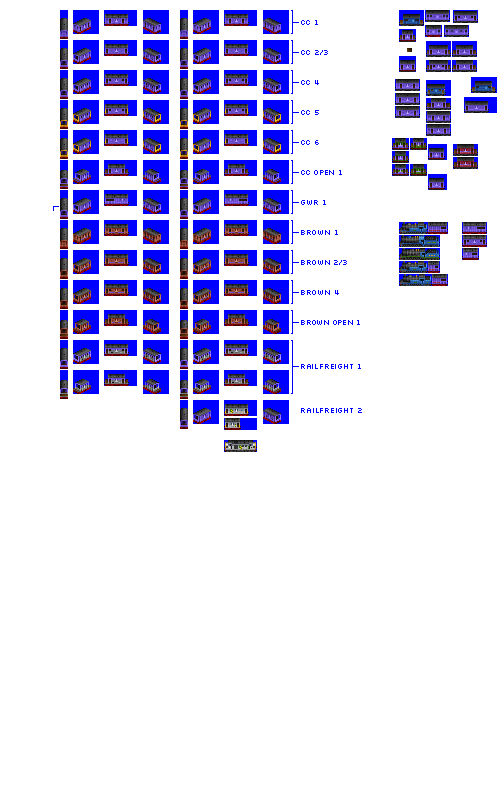
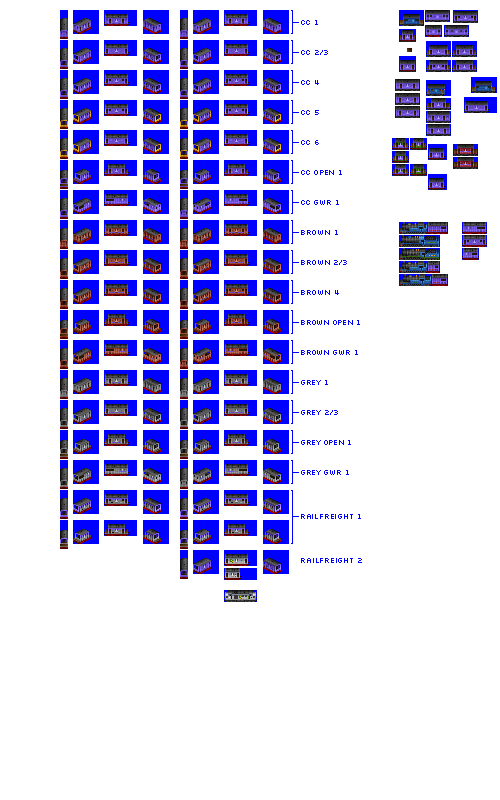
Change: GWR variants complete for Pony caboose cars

diff --git a/src/vehicles/caboose_cars.py b/src/vehicles/caboose_cars.py
@@ -68,11 +68,16 @@ def main():
         "cc_enclosed_5",
         "cc_enclosed_6",
         "cc_open_1",
-        "gwr_1",
+        "cc_gwr_1",
         "brown_enclosed_1",
         "brown_enclosed_2_3",
         "brown_enclosed_4",
         "brown_open_1",
+        "brown_gwr_1",
+        "grey_enclosed_1",
+        "grey_enclosed_2_3",
+        "grey_open_1",
+        "grey_gwr_1",
         "railfreight_enclosed_1",
         "railfreight_open_1",
         # "railfreight_2",
@@ -82,22 +87,28 @@ def main():
         "default_1": [
             "cc_enclosed_1",
             "brown_enclosed_1",
-            "brown_enclosed_1",
+            "grey_enclosed_1",
+            "grey_enclosed_1",
             "cc_open_1",
             "brown_open_1",
+            "grey_open_1",
         ],
         "default_2": [
             "cc_enclosed_2_3",
             "brown_enclosed_2_3",
+            "grey_enclosed_2_3",
             "cc_open_1",
             "brown_open_1",
+            "grey_open_1",
         ],
         "default_3": [
             "cc_enclosed_2_3",
             "brown_enclosed_2_3",
+            "grey_enclosed_2_3",
             "cc_open_1",
             "cc_open_1",
             "brown_open_1",
+            "grey_open_1",
         ],
         "default_4": [
             "cc_enclosed_4",
@@ -112,7 +123,7 @@ def main():
             "cc_open_1",
         ],
         "default_6": ["cc_enclosed_6", "cc_open_1"],
-        "gwr_1": ["gwr_1", "gwr_1", "brown_enclosed_2_3"],
+        "gwr_1": ["cc_gwr_1", "cc_gwr_1", "brown_gwr_1", "grey_gwr_1", "grey_enclosed_2_3"],
         "railfreight_1": [
             "railfreight_enclosed_1",
             "railfreight_open_1",
